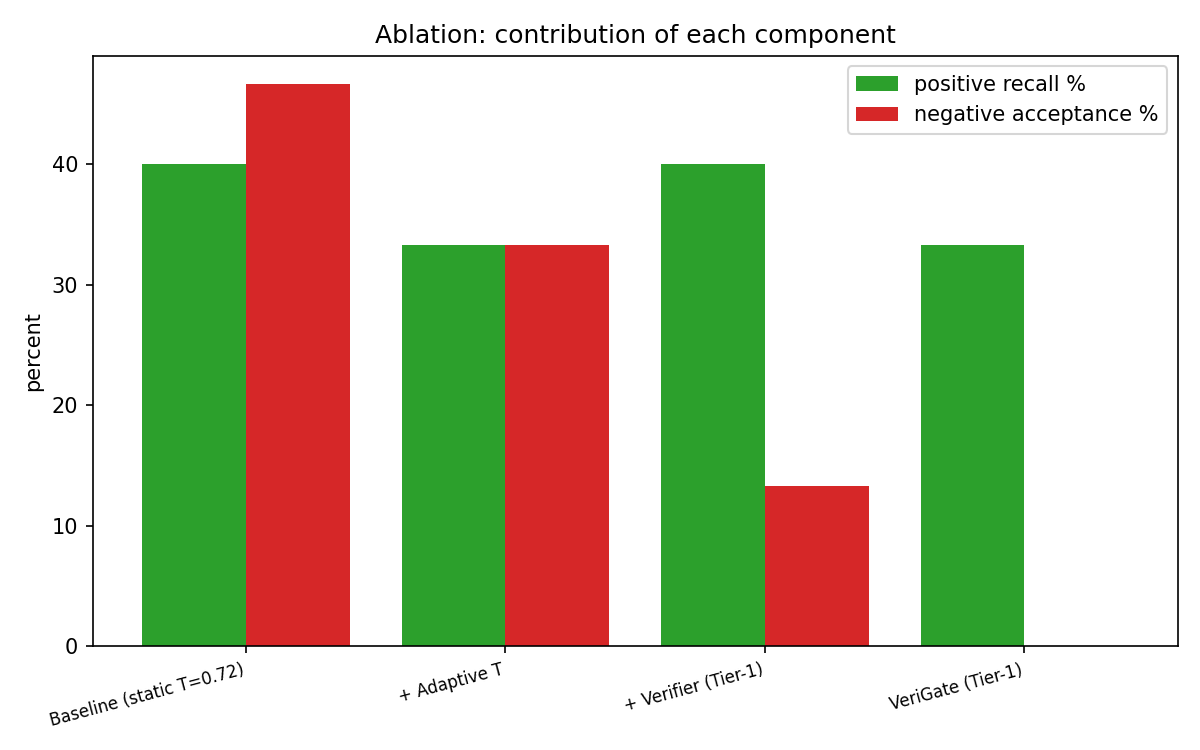
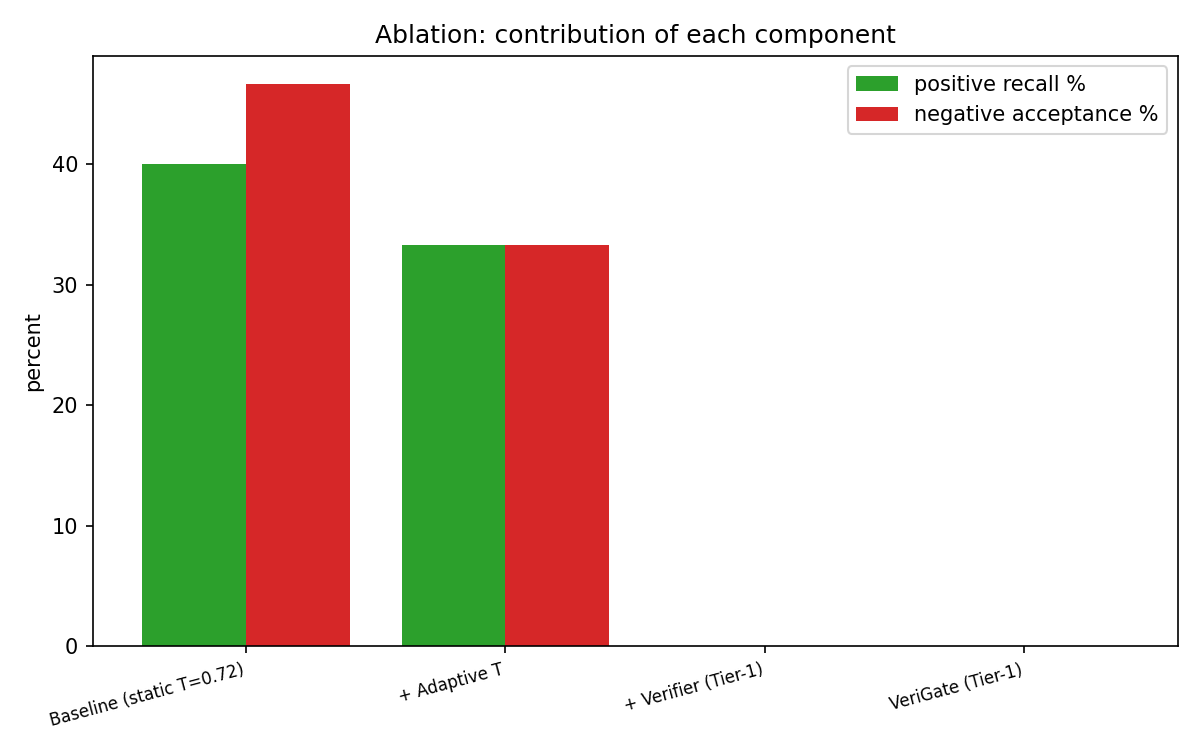
Regenerate smoke benchmark tables for token-diff verifier

Changed region(s): [[0.5242, 0.2147, 0.8633, 0.8587]]

diff --git a/scripts/summarize_experiments.py b/scripts/summarize_experiments.py
@@ -59,6 +59,7 @@ def main() -> None:  # noqa: PLR0912, PLR0915 - one report from source CSVs
     false_accepts = _rows("false_accepts.csv")
     verifier_rows = _rows("gold_verifier_policies.csv")
     label_rule_rows = _rows("gold_label_rules.csv")
+    smoke_metrics = _rows("metrics.csv")
     gold_stream = _rows("gold_stream.csv")
     mining = _rows("gold_mining.csv")[0]
     split_sizes = _rows("gold_split_sizes.csv")
@@ -287,8 +288,17 @@ def main() -> None:  # noqa: PLR0912, PLR0915 - one report from source CSVs
                 f"{_mean(rows, 'false_hit_among_served')} | "
                 f"{_ci_envelope(rows, 'risk_ci_low', 'risk_ci_high')} |"
             )
+    smoke_tier1 = next(row for row in smoke_metrics if row["system"] == "VeriGate (Tier-1)")
     lines.extend(
         [
+            "",
+            "On the older hand-authored smoke fixture, the default Tier-1",
+            f"verifier accepted {smoke_tier1['accepted']} of "
+            f"{int(smoke_tier1['positive_count']) + int(smoke_tier1['negative_count'])} "
+            "pairs after the token-diff change (`metrics.csv`). This indicates",
+            "that the new rule is too restrictive for those paraphrases; zero",
+            "acceptance is not a useful correctness result. That fixture is not",
+            "an independent gold-answer evaluation.",
             "",
             "### False-accept sample (diagnostic, not a rate estimate)",
             "",

diff --git a/docs/PHASE_STATUS.md b/docs/PHASE_STATUS.md
@@ -7,7 +7,7 @@ its evidence and checks exist; a working component is not a finished research cl
 |---|---|---|
 | 0 — baseline and hygiene | Honest README/report, generated tables, green CI | Complete in the prior commit; current local checks remain green. |
 | 1 — dataset and protocol | Public sources, answer-aware reviewed labels, grouped splits, fair baselines, CIs, filling-cache replay | **Expanded factoid proxy and two label rules complete; independent answer review open.** The NQ-Open miner has 11,586 pairs and proposes number, attribute, entity-slot and lexical-plus-semantic negatives. Connected questions stay in grouped splits; 25% is reserved for calibration. The strict alias rule has 6,000 positives; the broader lenient rule has 6,535. They are evaluated separately and neither is human answer review. The old replay is a small-corpus result. The optional review queue is blank and contributes no evidence. Generated-answer labels and large-cache retrieval remain. |
-| 2 — learned accept policy | Trained/calibrated model, ablations, transfer and opt-in gateway use | **Lowercase-safe verifier and five-seed strict/lenient rerun complete; deployment open.** `adaptive_token_diff` checks answer type and changed role/content tokens without capitalization. The old capitalization check remains an ablation. Across the strict corpus, token-diff coverage averaged 6.4% and mismatch among served 3.6%; with lenient labels, coverage was 6.4% and mismatch 2.3%. These are far below the capitalization baseline's 68.8% coverage, so the lower observed mismatch carries a severe coverage loss. Group-bootstrap CIs and all policy comparisons are in `gold_verifier_policies.csv`. The 100-per-policy false-accept audit remains strict-label evidence. The requested trained cross-encoder is item 3, still open. No trained gold model is wired into the gateway. |
+| 2 — learned accept policy | Trained/calibrated model, ablations, transfer and opt-in gateway use | **Lowercase-safe verifier and five-seed strict/lenient rerun complete; deployment open.** `adaptive_token_diff` checks answer type and changed role/content tokens without capitalization. The old capitalization check remains an ablation. Across the strict corpus, token-diff coverage averaged 6.4% and mismatch among served 3.6%; with lenient labels, coverage was 6.4% and mismatch 2.3%. These are far below the capitalization baseline's 68.8% coverage, so the lower observed mismatch carries a severe coverage loss. The hand-authored smoke fixture now accepts 0 of 30 pairs with Tier-1, an additional sign this rule is overly restrictive for paraphrases. Group-bootstrap CIs and all policy comparisons are in `gold_verifier_policies.csv`; the smoke result is in `metrics.csv`. The 100-per-policy false-accept audit remains strict-label evidence. The requested trained cross-encoder is item 3, still open. No trained gold model is wired into the gateway. |
 | 3 — risk control | Correct bound, artifact, held-out resampling and shift study | **Expanded-corpus item 2 complete as a negative result; deployment open.** The exact finite-grid bound selected reject-all at 1%, 2%, and 5% in all five grouped splits, giving zero held-out coverage. The best nonempty candidate had a 7.9% upper bound. Candidate diagnostics, selected outcomes, and zero-error sample minima are in `gold_risk_candidates.csv`, `gold_risk.csv`, and `gold_risk_min_samples.csv`. Correlated oracle labels prevent a formal production guarantee; a reviewed generated-answer risk study and a usable deployable artifact remain open. |
 | 4 — answer shadow checks and drift | Async fresh-answer checks, tenant controller, drift replay | **Partial.** The opt-in shadow sampler records cached question and answer plus a fresh answer. A pinned local triple judge exists, but failed gold validation and produced no model-judged rows: the review queue has blank answers and shadow is off. No reviewed outcome set, drift replay or active controller exists. No real-provider shadow calls were made. See `SHADOW_REVIEW.md`. |
 | 5 — volatility and TTL | Labelled volatility corpus, classifier and staleness/hit-rate study | Not started. Existing keyword rules remain. |

diff --git a/docs/RESULTS_EXPERIMENTAL.md b/docs/RESULTS_EXPERIMENTAL.md
@@ -151,6 +151,12 @@ All per-seed estimates, denominators and CIs are in
 | learned_with_nli | 60.6% | [51.5%, 67.1%] | 13.0% | [6.9%, 18.7%] |
 | learned_without_nli | 63.1% | [55.7%, 70.0%] | 15.1% | [10.9%, 20.8%] |
 
+On the older hand-authored smoke fixture, the default Tier-1
+verifier accepted 0 of 30 pairs after the token-diff change (`metrics.csv`). This indicates
+that the new rule is too restrictive for those paraphrases; zero
+acceptance is not a useful correctness result. That fixture is not
+an independent gold-answer evaluation.
+
 ### False-accept sample (diagnostic, not a rate estimate)
 
 `false_accepts.csv` contains 100 distinct held-out source pairs per
